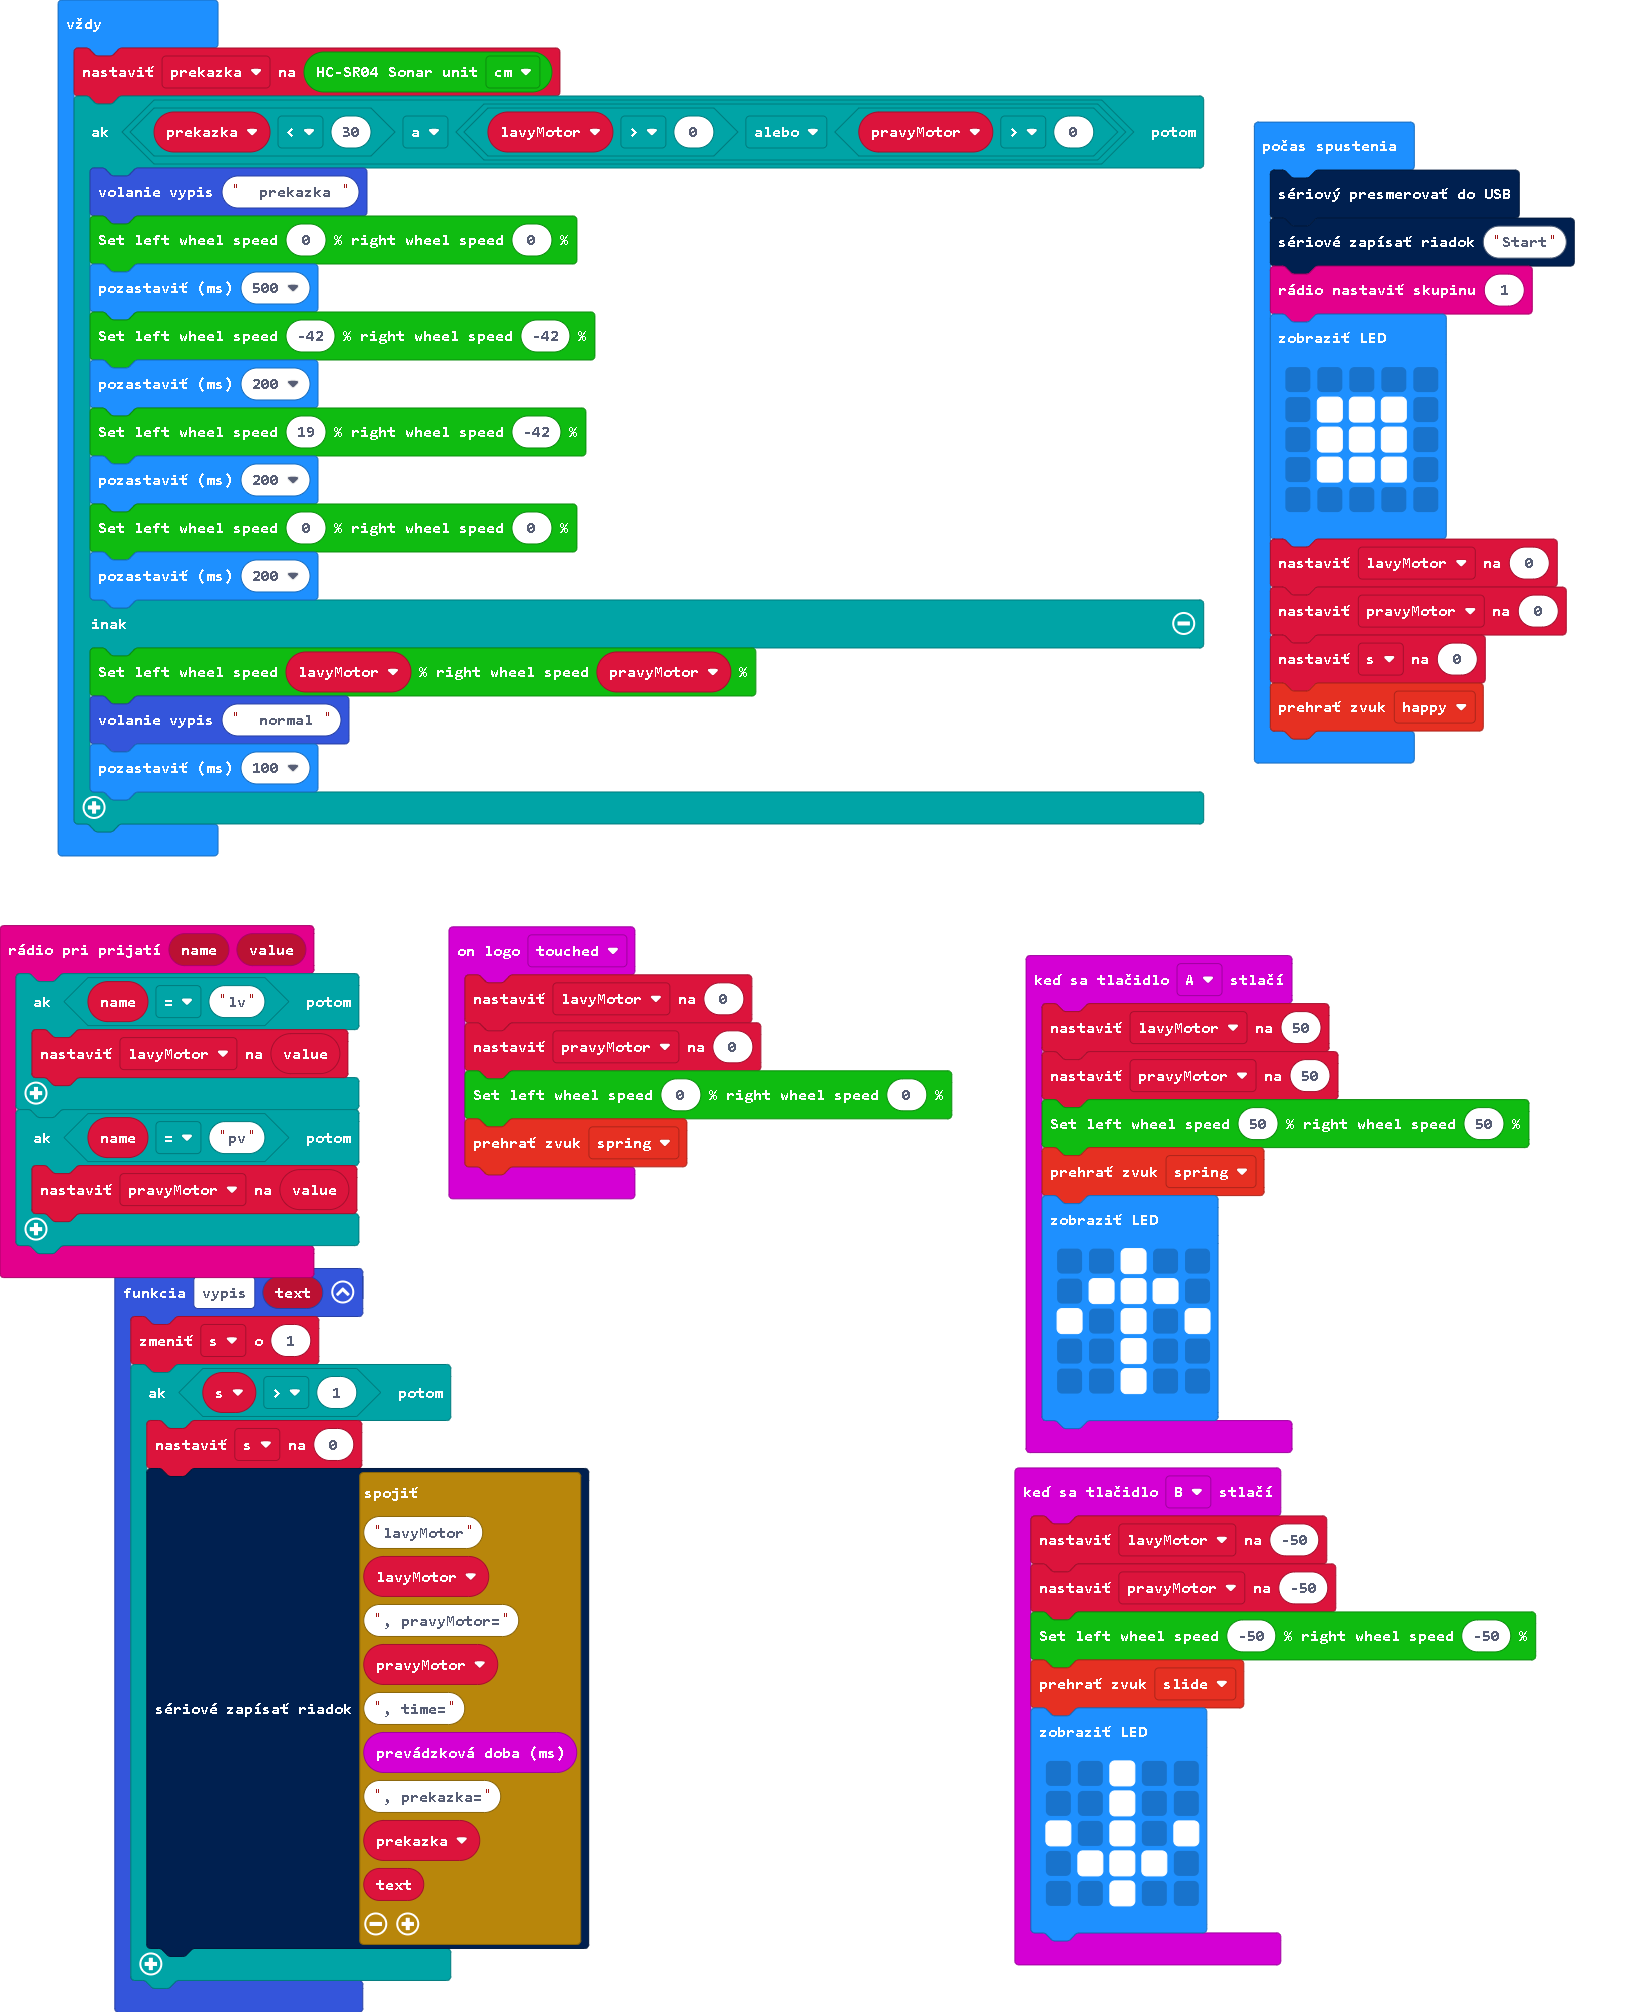
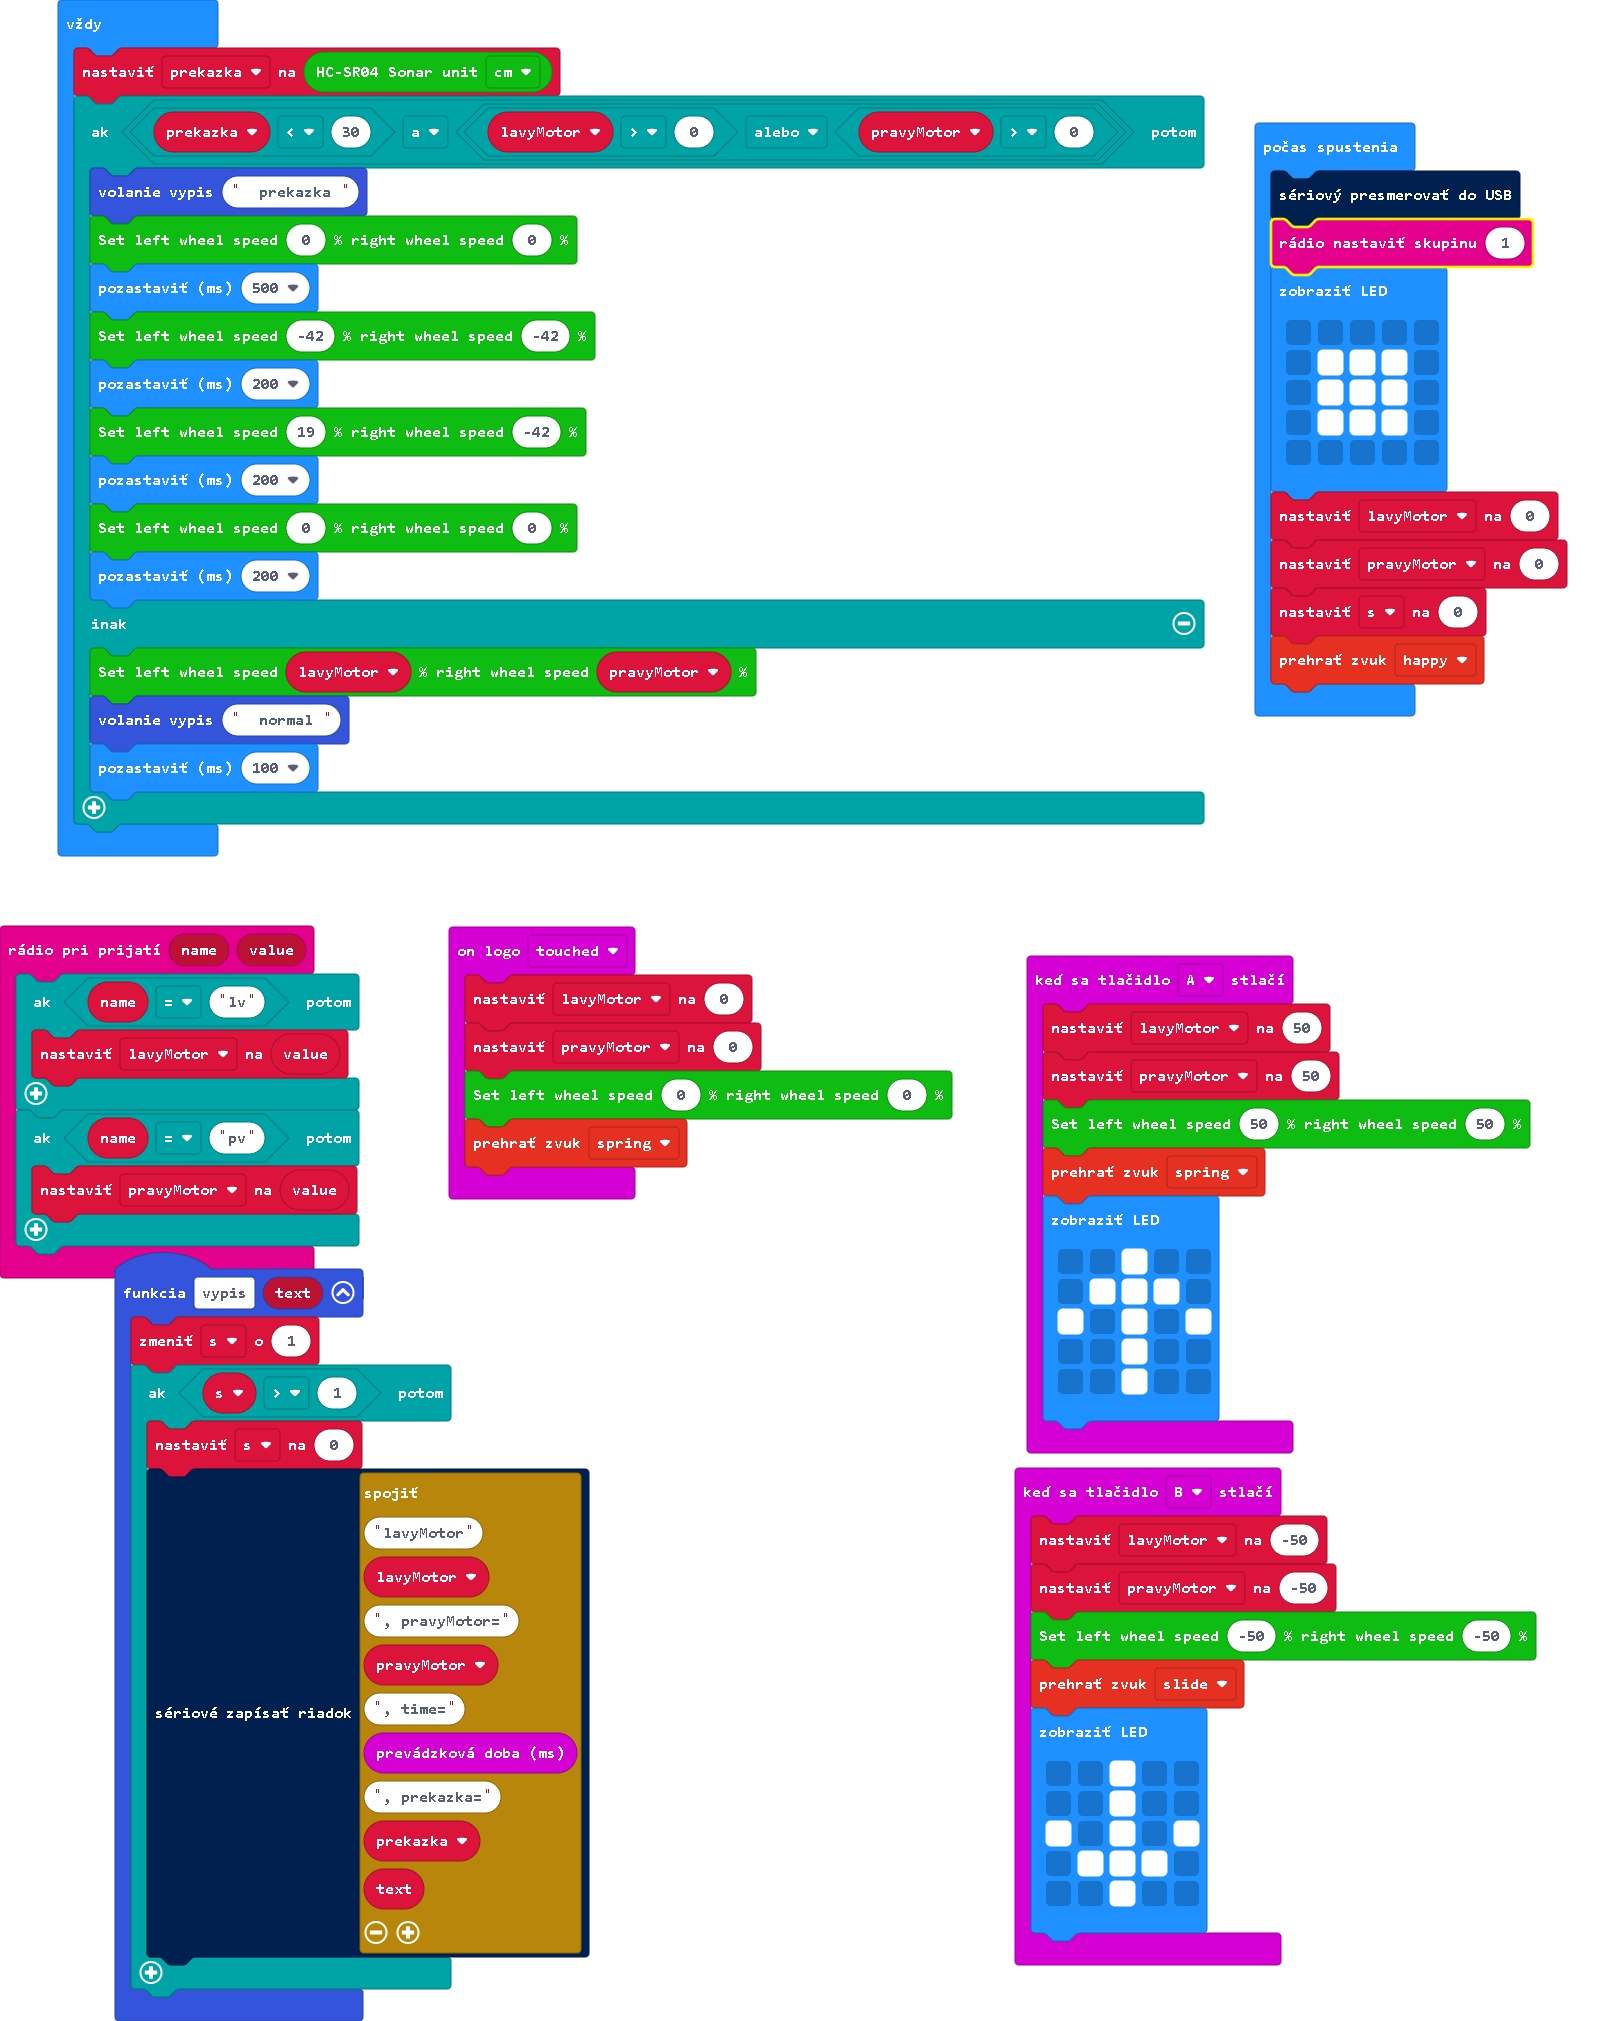
Aktualizovať main.blocks, main.ts

diff --git a/main.ts b/main.ts
@@ -50,7 +50,6 @@ let s = 0
 let pravyMotor = 0
 let lavyMotor = 0
 serial.redirectToUSB()
-serial.writeLine("Start")
 radio.setGroup(1)
 basic.showLeds(`
     . . . . .
